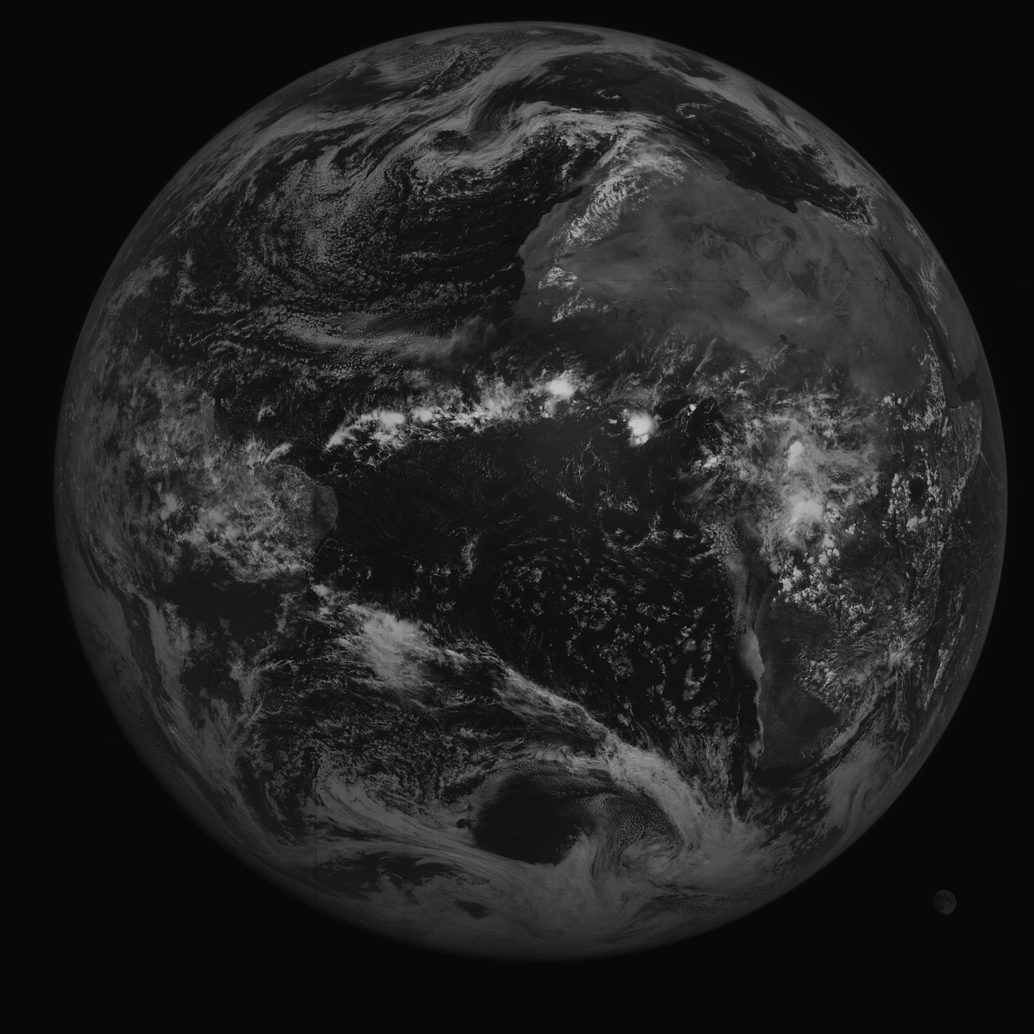
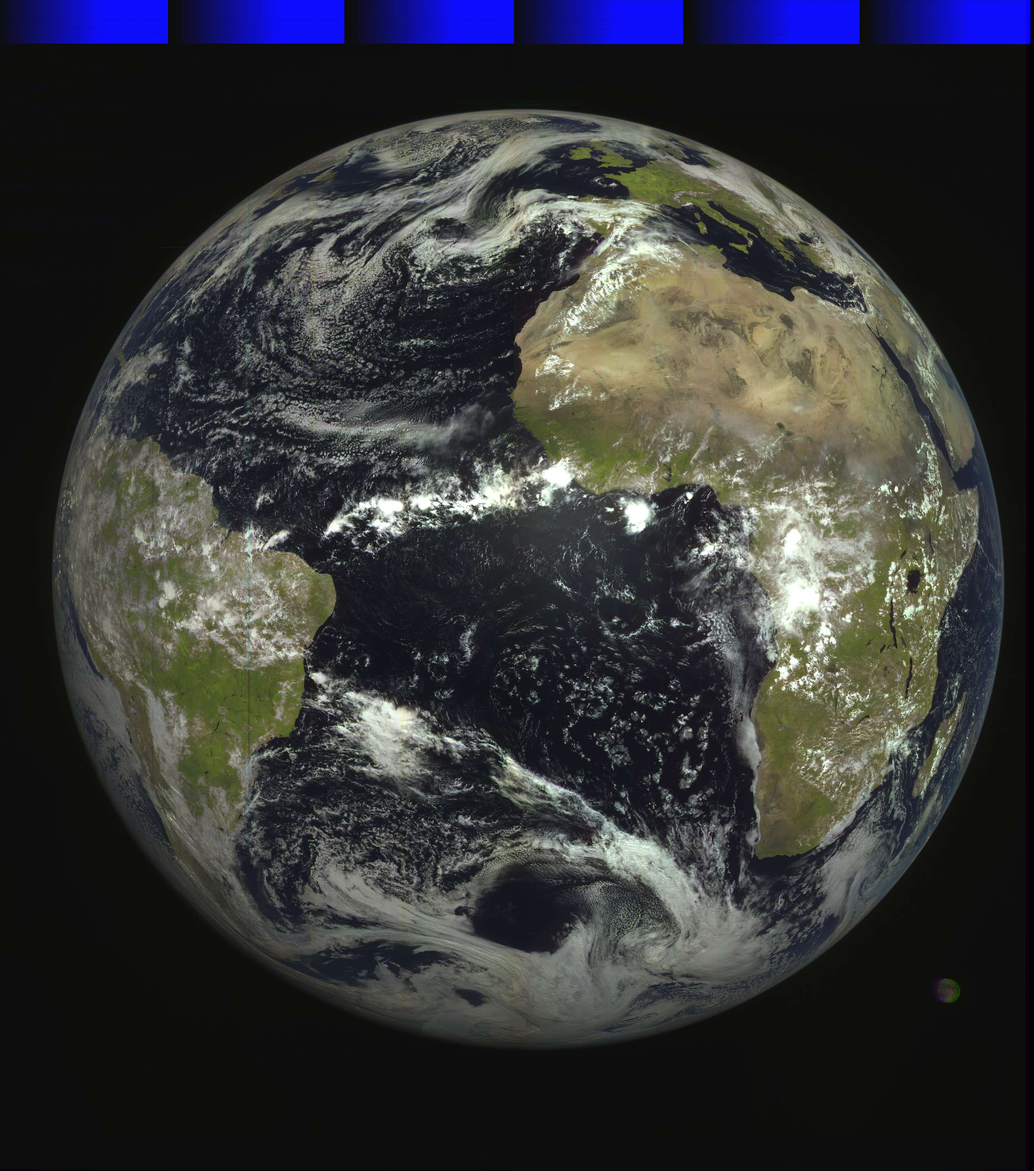
Colorized RDAS

diff --git a/docs/Radio/X band weather satellites.md b/docs/Radio/X band weather satellites.md
@@ -300,7 +300,7 @@ VIIRS and ATMS are identical between all of JPSS. OMPS is not implemented in Sat
 ## Elektro-L
 
 ![As said below. Image includes a moon in the corner for vanity](../../assets/images/X-band-transmissions/elektro-rdas.jpg)
-*Elektro-L2 Channel 1 received on 11/4/2025 at 12:29 UTC by lego11. 60% quality lossy JPEG compression applied, image resized to 25%. Click [here](https://sat-archive.cpt-dingus.cc/X-band/Elektro-L/Elektro-L2/2025-04-11_12-29_elektro-rdas_lego11/MSU-GS/MSU-GS-1.png) for the full resolution image*
+*Elektro-L2 Channel 1 received on 11/4/2025 at 12:29 UTC by lego11. 60% quality lossy JPEG compression applied, image resized to 25%. Aligned using the [Digitelektro's RDAS aligner](https://github.com/Digitelektro/rdas_layer_aligner). Click [here](https://sat-archive.cpt-dingus.cc/X-band/Elektro-L/Elektro-L2/2025-04-11_12-29_elektro-rdas_lego11/msugs_vis_Natural_Color.png) for the full resolution image*
 
 ### Description
 
